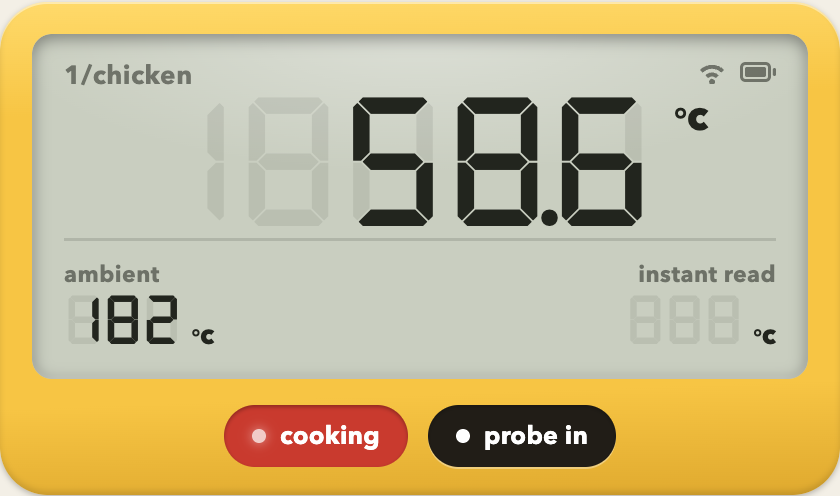
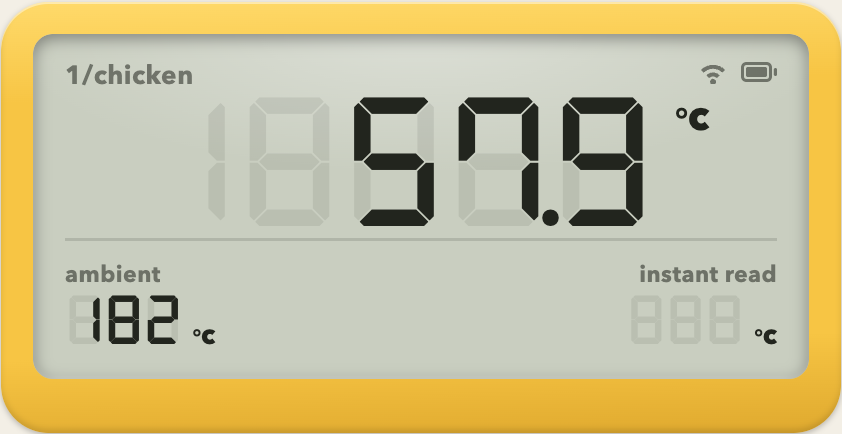
Remove the guessed Cooking and Probe-inserted binary sensors
These two probe binary sensors were advertisement-derived heuristics
(tip-to-handle temperature differential), not data the probe reports.
Removing them so the integration only exposes what the devices actually
broadcast. The probe card's chips become overheating / battery (both
warning-only), and its sub-panels show the cook target + ready-in
countdown when a prediction is active. README and screenshots updated.

diff --git a/custom_components/combustion/www/combustion-card.js b/custom_components/combustion/www/combustion-card.js
@@ -102,8 +102,7 @@ class CombustionCard extends HTMLElement {
       core: 'sensor.' + base + '_core_temperature',
       ambient: 'sensor.' + base + '_ambient_temperature',
       instant: 'sensor.' + base + '_instant_read_temperature',
-      cooking: 'binary_sensor.' + base + '_cooking',
-      inserted: 'binary_sensor.' + base + '_probe_inserted',
+      overheating: 'binary_sensor.' + base + '_overheating',
       battery: 'binary_sensor.' + base + '_battery',
       mode: 'sensor.' + base + '_mode',
       ready_in: 'sensor.' + base + '_ready_in',
@@ -252,8 +251,7 @@ class CombustionCard extends HTMLElement {
         </div>
       </div>`;
     const probeChips = `
-      <span class="chip state cooking" id="chip-a"><span class="dot"></span>cooking</span>
-      <span class="chip state inserted" id="chip-b"><span class="dot"></span>probe in</span>
+      <span class="chip state overheat" id="chip-a"><span class="dot"></span>overheating</span>
       <span class="chip state battery" id="chip-batt"><span class="dot"></span>battery low</span>`;
     const gaugeChips = `
       <span class="chip state cooking" id="chip-a"><span class="dot"></span>alarm</span>
@@ -305,7 +303,8 @@ class CombustionCard extends HTMLElement {
         .chip.on .dot { background: #fff; }
         .chip.cooking.on { background: var(--accent-red); box-shadow: inset 0 1px 2px rgba(0,0,0,.3); }
         .chip.cooking.on .dot { box-shadow: 0 0 6px rgba(255,255,255,.8); animation: pulse 2.2s ease-in-out infinite; }
-        .chip.inserted.on { background: var(--ink); }
+        .chip.overheat { display: none; }
+        .chip.overheat.on { display: inline-flex; background: var(--accent-red); color: #fff; }
         .chip.sensor.on { background: var(--ink); }
         .chip.battery { display: none; }
         .chip.battery.on { display: inline-flex; background: var(--accent-red); color: #fff; }
@@ -430,8 +429,7 @@ class CombustionCard extends HTMLElement {
       this.shadowRoot.getElementById('chip-a').classList.toggle('on', !!alarming && available);
       setChip('chip-b', 'sensor_connected');
     } else {
-      setChip('chip-a', 'cooking');
-      setChip('chip-b', 'inserted');
+      setChip('chip-a', 'overheating');
     }
     setChip('chip-batt', 'battery');
   }

diff --git a/custom_components/combustion/binary_sensor.py b/custom_components/combustion/binary_sensor.py
@@ -62,8 +62,6 @@ def _create_binary_sensors(probe_manager: ProbeManager, device_data):
     return [
         CombustionBatterySensor(probe_manager, device_data),
         CombustionProbeOverheatingSensor(probe_manager, device_data),
-        CombustionProbeInsertedSensor(probe_manager, device_data),
-        CombustionCookingSensor(probe_manager, device_data),
     ]
 
 
@@ -125,132 +123,6 @@ class CombustionBatterySensor(BaseCombustionBinarySensor):
         """Return true if the battery is low."""
         data = self._device_data()
         return None if data is None else not data.battery_ok
-
-
-COOKING_DESCRIPTION = BinarySensorEntityDescription(
-    key="probe_cooking",
-    name="Cooking",
-    device_class=BinarySensorDeviceClass.RUNNING
-)
-
-INSERTED_DESCRIPTION = BinarySensorEntityDescription(
-    key="probe_inserted",
-    name="Probe inserted",
-)
-
-# Insertion is detected from the tip-to-handle temperature differential: a
-# probe lying on a surface reads near-uniform across all sensors, while a
-# probe in food (fridge-cold meat on the counter, meat in a cooker, or hot
-# meat resting) shows a large core/ambient spread. Hysteresis avoids
-# flapping. A probe inserted into room-temperature food shows no differential
-# until the cook starts; that is a physical limit of advertisement data.
-INSERTED_ON_DIFF_C = 8.0
-INSERTED_OFF_DIFF_C = 4.0
-
-# Cooking additionally requires ambient heat no indoor environment reaches.
-# Below this (e.g. cold smoking) use the "Probe inserted" sensor instead.
-COOKING_ON_AMBIENT_C = 45.0
-COOKING_OFF_AMBIENT_C = 40.0
-
-
-class _ProbeTemperatureHeuristicSensor(BaseCombustionBinarySensor):
-    """Shared plumbing for insertion/cooking heuristics."""
-
-    def _readings(self):
-        """Return (core, ambient) or None."""
-        data = self._device_data()
-        if data is None:
-            return None
-        try:
-            (_c, core) = data.core_sensor
-            (_a, ambient) = data.ambient_sensor
-        except Exception:
-            return None
-        return (core, ambient)
-
-    def _inserted(self, previous: bool) -> bool | None:
-        readings = self._readings()
-        if readings is None:
-            return None
-        (core, ambient) = readings
-        threshold = INSERTED_OFF_DIFF_C if previous else INSERTED_ON_DIFF_C
-        return abs(ambient - core) >= threshold
-
-    @property
-    def extra_state_attributes(self):
-        """Current core/ambient readings backing the state."""
-        readings = self._readings()
-        if readings is None:
-            return None
-        (core, ambient) = readings
-        return {
-            'core_temperature': round(core, 1),
-            'ambient_temperature': round(ambient, 1),
-            'differential': round(abs(ambient - core), 1),
-        }
-
-
-class CombustionProbeInsertedSensor(_ProbeTemperatureHeuristicSensor):
-    """Whether the probe appears to be inserted in food.
-
-    On when the core/ambient differential reaches 8C (e.g. fridge-cold meat
-    at room temperature, or any active cook or rest); off below 4C.
-    """
-
-    def __init__(self, probe_manager: ProbeManager, device_data) -> None:
-        """Initialize."""
-        super().__init__(probe_manager, device_data)
-        self._attr_unique_id = f'{device_data.serial_number}--inserted'
-        self.entity_description = INSERTED_DESCRIPTION
-        self._state = False
-
-    @property
-    def name(self):
-        """Sensor name."""
-        return 'Probe inserted'
-
-    @property
-    def is_on(self) -> bool | None:
-        """Return true while the probe appears to be inserted."""
-        inserted = self._inserted(self._state)
-        if inserted is None:
-            return None
-        self._state = inserted
-        return inserted
-
-
-class CombustionCookingSensor(_ProbeTemperatureHeuristicSensor):
-    """Whether the probe appears to be in an active cook.
-
-    On when the probe is inserted AND the ambient sensor reaches 45C; off
-    below 40C or when no longer inserted. Resting meat therefore reads as
-    inserted but not cooking.
-    """
-
-    def __init__(self, probe_manager: ProbeManager, device_data) -> None:
-        """Initialize."""
-        super().__init__(probe_manager, device_data)
-        self._attr_unique_id = f'{device_data.serial_number}--cooking'
-        self.entity_description = COOKING_DESCRIPTION
-        self._cooking = False
-
-    @property
-    def name(self):
-        """Sensor name."""
-        return 'Cooking'
-
-    @property
-    def is_on(self) -> bool | None:
-        """Return true while the probe appears to be cooking."""
-        readings = self._readings()
-        if readings is None:
-            return None
-        (_core, ambient) = readings
-
-        inserted = self._inserted(self._cooking)
-        ambient_threshold = COOKING_OFF_AMBIENT_C if self._cooking else COOKING_ON_AMBIENT_C
-        self._cooking = bool(inserted) and ambient >= ambient_threshold
-        return self._cooking
 
 
 class CombustionProbeOverheatingSensor(BaseCombustionBinarySensor):

diff --git a/tests/test_init.py b/tests/test_init.py
@@ -52,11 +52,11 @@ async def test_entity_creation(hass: HomeAssistant):
     disabled_sensors = [e for e in sensors if e.disabled is True]
     binary_sensors = [e for e in entities if e.domain == 'binary_sensor']
 
-    assert len(entities) == 18
+    assert len(entities) == 16
     assert len(sensors) == 14
     # 9 disabled by default: 8 temperature sensors, and 1 RSSI sensor
     assert len(disabled_sensors) == 9
-    assert len(binary_sensors) == 4
+    assert len(binary_sensors) == 2
 
 
 @pytest.mark.asyncio
@@ -84,7 +84,7 @@ async def test_entity_creation_non_connectable(hass: HomeAssistant):
     await hass.async_block_till_done()
 
     entities = entity_registry.async_entries_for_config_entry(er, entry.entry_id)
-    assert len(entities) == 18
+    assert len(entities) == 16
 
 
 def _booster_bits() -> bytes:
@@ -453,66 +453,6 @@ async def test_mode_and_overheating_sensors(hass: HomeAssistant):
 
 
 @pytest.mark.asyncio
-async def test_cooking_sensor_hysteresis(hass: HomeAssistant):
-    """Cooking sensor turns on at >=45C ambient and off below 40C."""
-    import time as real_time
-    from unittest.mock import patch
-
-    mock_entry = MockConfigEntry(
-        unique_id="test_cooking",
-        domain=DOMAIN,
-        version=1,
-        data={},
-        title="Meatnet",
-    )
-
-    await _setup_config_entry(hass, mock_entry)
-
-    def temps(ambient):
-        # Default ambient virtual sensor is T7 (index 6).
-        values = [25.0] * 8
-        values[6] = ambient
-        return values
-
-    cold = create_advertisement(create_combustion_bits(temperature_data=temps(25.0)))
-    inject_bt_advertisement(hass, cold)
-    await hass.async_block_till_done()
-    inject_bt_advertisement(hass, cold)
-    await hass.async_block_till_done()
-
-    er = entity_registry.async_get(hass)
-    cooking_id = next(e.entity_id for e in er.entities.values() if (e.unique_id or '').endswith('--cooking'))
-    mode_id = next(e.entity_id for e in er.entities.values() if (e.unique_id or '').endswith('--mode'))
-
-    assert hass.states.get(cooking_id).state == 'off'
-
-    # Source attributes exposed on the mode sensor
-    mode_attrs = hass.states.get(mode_id).attributes
-    assert mode_attrs['via_repeater'] is False
-    assert mode_attrs['hops'] is None
-    assert 'source_address' in mode_attrs
-
-    base = real_time.monotonic()
-    with patch('custom_components.combustion.probe_manager.time.monotonic', return_value=base + 10.0):
-        inject_bt_advertisement(hass, create_advertisement(create_combustion_bits(temperature_data=temps(80.0))))
-        await hass.async_block_till_done()
-        state = hass.states.get(cooking_id)
-        assert state.state == 'on'
-        assert state.attributes['ambient_temperature'] == 80.0
-
-    with patch('custom_components.combustion.probe_manager.time.monotonic', return_value=base + 20.0):
-        # 42C: below the ON threshold but above the OFF threshold -> stays on
-        inject_bt_advertisement(hass, create_advertisement(create_combustion_bits(temperature_data=temps(42.0))))
-        await hass.async_block_till_done()
-        assert hass.states.get(cooking_id).state == 'on'
-
-    with patch('custom_components.combustion.probe_manager.time.monotonic', return_value=base + 30.0):
-        inject_bt_advertisement(hass, create_advertisement(create_combustion_bits(temperature_data=temps(30.0))))
-        await hass.async_block_till_done()
-        assert hass.states.get(cooking_id).state == 'off'
-
-
[email redacted]
 async def test_manager_options_respected(hass: HomeAssistant):
     """Configured availability timeout and update throttle are honored."""
     from unittest.mock import patch
@@ -600,55 +540,6 @@ async def test_options_flow(hass: HomeAssistant):
     assert hass.data[DOMAIN].availability_timeout_seconds == 45.0
 
 
[email redacted]
-async def test_probe_inserted_detects_fridge_cold_meat(hass: HomeAssistant):
-    """Cold meat at room temperature reads as inserted (differential) but not cooking."""
-    import time as real_time
-    from unittest.mock import patch
-
-    mock_entry = MockConfigEntry(
-        unique_id="test_inserted",
-        domain=DOMAIN,
-        version=1,
-        data={},
-        title="Meatnet",
-    )
-
-    await _setup_config_entry(hass, mock_entry)
-
-    uniform = create_advertisement(create_combustion_bits(temperature_data=[20.0] * 8))
-    inject_bt_advertisement(hass, uniform)
-    await hass.async_block_till_done()
-    inject_bt_advertisement(hass, uniform)
-    await hass.async_block_till_done()
-
-    er = entity_registry.async_get(hass)
-    inserted_id = next(e.entity_id for e in er.entities.values() if (e.unique_id or '').endswith('--inserted'))
-    cooking_id = next(e.entity_id for e in er.entities.values() if (e.unique_id or '').endswith('--cooking'))
-
-    # Probe on the counter: uniform temperatures -> not inserted.
-    assert hass.states.get(inserted_id).state == 'off'
-
-    base = real_time.monotonic()
-    # Into fridge-cold meat on the counter: tip 4C, handle 20C.
-    fridge_meat = create_advertisement(create_combustion_bits(temperature_data=[4.0] + [20.0] * 7))
-    with patch('custom_components.combustion.probe_manager.time.monotonic', return_value=base + 10.0):
-        inject_bt_advertisement(hass, fridge_meat)
-        await hass.async_block_till_done()
-        state = hass.states.get(inserted_id)
-        assert state.state == 'on'
-        assert state.attributes['differential'] == 16.0
-        assert hass.states.get(cooking_id).state == 'off'
-
-    # Resting: hot core, room ambient -> still inserted, not cooking.
-    resting = create_advertisement(create_combustion_bits(temperature_data=[60.0] + [22.0] * 7))
-    with patch('custom_components.combustion.probe_manager.time.monotonic', return_value=base + 20.0):
-        inject_bt_advertisement(hass, resting)
-        await hass.async_block_till_done()
-        assert hass.states.get(inserted_id).state == 'on'
-        assert hass.states.get(cooking_id).state == 'off'
-
-
 def test_prediction_decode_matches_combustion_bit_packing():
     """The 7-byte prediction status decodes per Combustion's Android library."""
     from custom_components.combustion.combustion_ble.prediction_data import (
@@ -722,7 +613,7 @@ async def test_setup_with_predictions_option_enabled(hass: HomeAssistant):
     assert hass.data.get(f"{DOMAIN}_prediction") is not None
     er = entity_registry.async_get(hass)
     entities = entity_registry.async_entries_for_config_entry(er, entry.entry_id)
-    assert len(entities) == 18   # prediction entities appear only once connected
+    assert len(entities) == 16   # prediction entities appear only once connected
 
     assert await hass.config_entries.async_unload(entry.entry_id)
     await hass.async_block_till_done()

diff --git a/README.md b/README.md
@@ -9,14 +9,14 @@ Integrate [Combustion](https://combustion.inc) predictive probes and gauges into
 > **Note:** This is a maintained fork of [legrego/homeassistant-combustion](https://github.com/legrego/homeassistant-combustion) with fixes for Home Assistant 2026.3+ and additional device support. See [What's different in this fork](#whats-different-in-this-fork).
 
 <p align="center">
-  <img src="docs/images/card-probe-cooking.png" width="420" alt="Bundled dashboard card showing a probe mid-cook: core temperature 58.6°C on a segmented LCD, ambient 182°C, cooking and probe-in chips lit">
+  <img src="docs/images/card-probe-cooking.png" width="420" alt="Bundled dashboard card showing a probe mid-cook: core temperature 58.6°C on a segmented LCD with ambient and instant-read panels">
 </p>
 
 **This integration will set up the following platforms.**
 
 Platform | Description
 -- | --
-`binary_sensor` | Battery, overheating, cooking / probe-inserted (probes) and sensor-connected / alarm status (gauges).
+`binary_sensor` | Battery and overheating (probes), plus sensor-connected and high/low alarm status (gauges).
 `sensor` | Temperature data from probes and gauges on your Meatnet, the gauge cooking zone, plus diagnostics (mode, RSSI).
 
 ## What's different in this fork
@@ -76,7 +76,7 @@ The integration bundles a Lovelace card styled after the Combustion hardware. Pr
 
 | Giant Grill Gauge | Combined pit + food | Probe, mid-cook |
 | :---: | :---: | :---: |
-| <img src="docs/images/card-gauge.png" width="260" alt="Round Grill Gauge card: 132°C in the BBQ zone, segmented dial filling from SMOKE, red high-alarm and blue low-alarm marks"> | <img src="docs/images/card-gauge-combined.png" width="260" alt="Round gauge dial with a food probe core temperature shown below"> | <img src="docs/images/card-probe-cooking.png" width="260" alt="Square probe card mid-cook: core 58.6°C, ambient 182°C, cooking and probe-in chips lit"> |
+| <img src="docs/images/card-gauge.png" width="260" alt="Round Grill Gauge card: 132°C in the BBQ zone, segmented dial filling from SMOKE, red high-alarm and blue low-alarm marks"> | <img src="docs/images/card-gauge-combined.png" width="260" alt="Round gauge dial with a food probe core temperature shown below"> | <img src="docs/images/card-probe-cooking.png" width="260" alt="Square probe card mid-cook: core 58.6°C with ambient and instant-read panels"> |
 
 ```yaml
 type: custom:combustion-card
@@ -91,7 +91,7 @@ type: custom:combustion-card
 entity: sensor.predictive_thermometer_10007dc0_core_temperature
 ```
 
-Probes show core temperature with ambient and instant-read sub-panels plus cooking / probe-in / battery chips.
+Probes show core temperature with ambient and instant-read sub-panels; while a cook target is set (see [Predictions](#predictions-experimental)) the sub-panels switch to the cook target and a "ready in" countdown.
 
 Gauges render as the round dial: the grill temperature fills the SMOKE→INSANE ring, with red/blue marks for the high/low alarm setpoints. Extra gauge options:
 